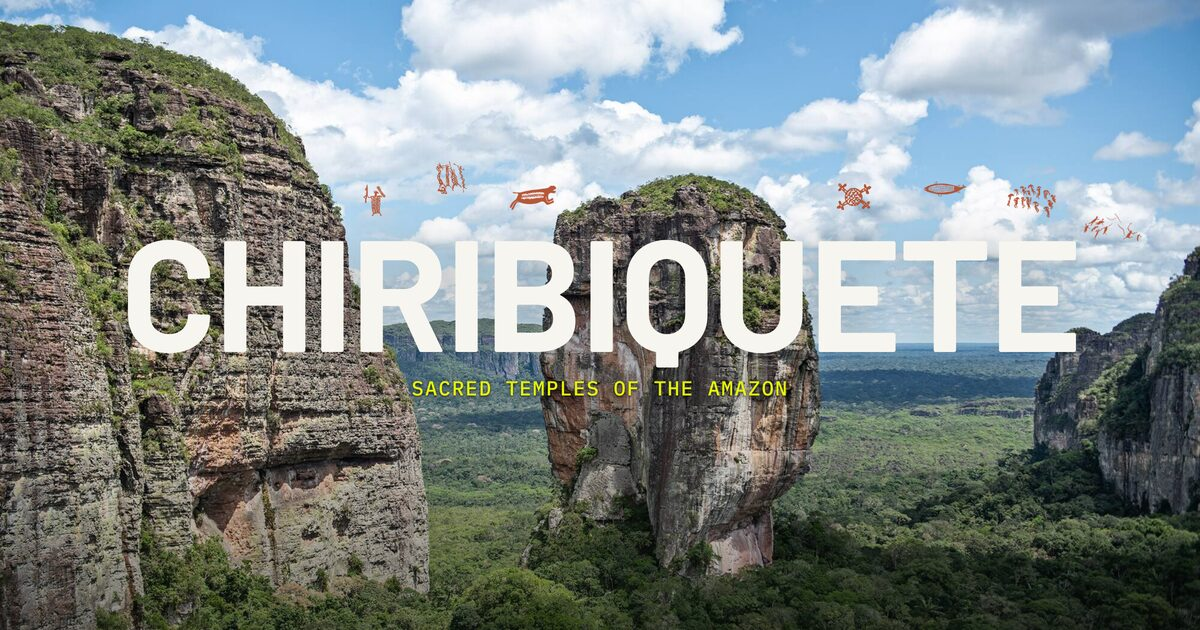
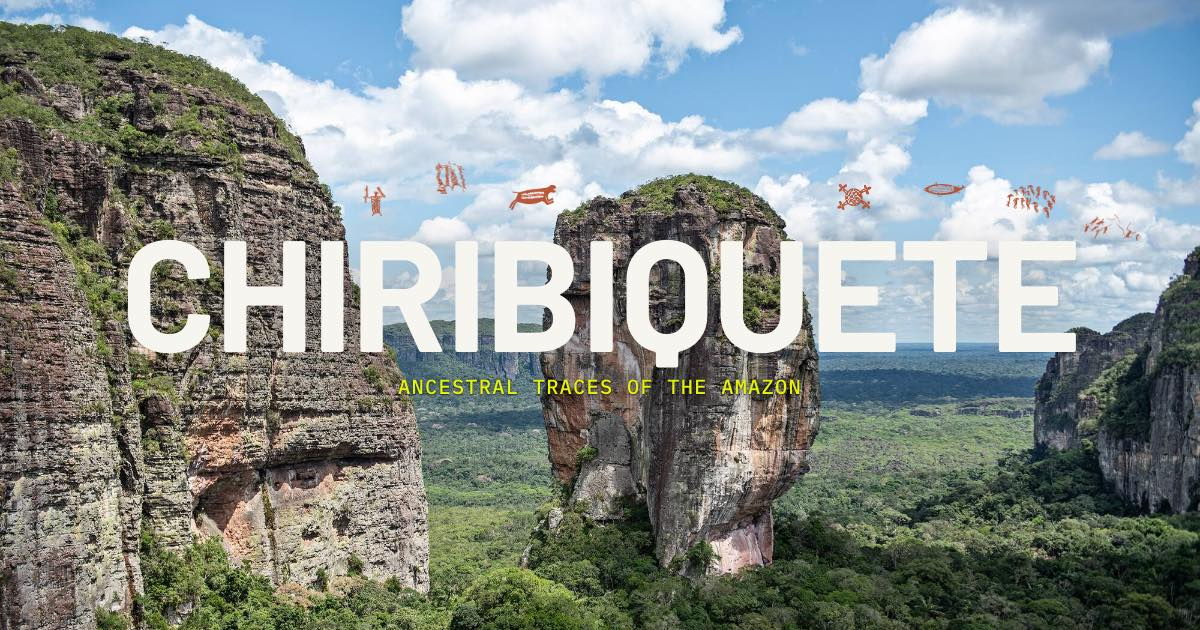
Update Nicolas Villaume bio and new subtitle "Huellas ancestrales de la Amazonía"
Bio rewritten in ES (provided text) and translated to EN/FR. Subtitle
changed in hero, news card and social previews for all three languages.

diff --git a/fr.html b/fr.html
@@ -86,7 +86,7 @@
             <span class="picto picto--ochre" style="--p:url(assets/pictos/p307.png); --x:103.5%; --y:-0.1; --h:0.8; --d:6"></span><!-- a la derecha de la última E, más bajo -->
           </span></span>
         </h1>
-        <p class="hero__sub">Temples sacrés d’Amazonie</p>
+        <p class="hero__sub">Empreintes ancestrales d’Amazonie</p>
       </div>
       </div>
       <div class="hero__shade" aria-hidden="true"></div>
@@ -143,7 +143,7 @@
             <a class="btn" href="https://www.google.com/maps/search/?api=1&amp;query=Alianza%20Francesa%20Bogot%C3%A1%20Sede%20Chic%C3%B3" target="_blank" rel="noopener">Itinéraire</a>
           </div>
 
-          <h3 class="event__expo">Chiribiquete<span>Temples sacrés d’Amazonie</span></h3>
+          <h3 class="event__expo">Chiribiquete<span>Empreintes ancestrales d’Amazonie</span></h3>
           <p class="event__text">Chiribiquete VR arrive à Bogotá dans le cadre de Novembre Numérique, le festival des cultures numériques du réseau des Alliances Françaises, qui célèbre les nouvelles formes interactives de l’art. Un événement de l’Alliance Française de Bogotá, qui accueille dans la galerie de son site de Chicó une exposition entre art, science et technologie&nbsp;: réalité virtuelle, photographie et muséographie numérique pour pénétrer dans les tepuys, la forêt et les peintures rupestres de Chiribiquete. L’inauguration sera accompagnée d’une table ronde de haut niveau dans l’auditorium de l’Alliance Française.</p>
 
           <p class="partners__label">Partenaires &amp; soutiens</p>
@@ -302,8 +302,9 @@
         <div class="creator">
           <div class="creator__text" data-reveal>
             <h3 class="h3">Nicolas Villaume</h3>
-            <p>Nicolas Villaume est un photographe primé et explorateur National Geographic, fort de plus de 25 ans de carrière à travers le monde. Son travail, des communautés arctiques touchées par le changement climatique aux cultures ancestrales de l’Amazonie colombienne, explore les liens entre nature et culture et cherche à inspirer l’action.</p>
-            <p>Son œuvre a été présentée dans plus de 50 expositions internationales, notamment au Smithsonian National Museum of the American Indian, au siège des Nations unies et au Musée national du Danemark, ainsi que lors de grands événements internationaux consacrés au climat.</p>
+            <p>Nicolas Villaume est un photographe primé et National Geographic Explorer, fort de plus de 25 ans de carrière internationale. Spécialiste des récits immersifs (<em>immersive storytelling</em>), il fonde en 2004 l’organisation Conversations du Monde, dédiée à la création d’expériences multimédias qui sensibilisent à la diversité bioculturelle et la mettent en valeur.</p>
+            <p>Son travail, des communautés arctiques touchées par le changement climatique aux cultures ancestrales de l’Amazonie colombienne, explore les liens entre nature et culture, avec l’ambition de rapprocher le public de ces territoires et de leurs communautés, et d’inspirer de nouvelles formes de conscience et d’action.</p>
+            <p>Son œuvre a été présentée dans plus de 50 expositions internationales, notamment au Smithsonian National Museum of the American Indian, au siège des Nations unies et au Musée national du Danemark, ainsi que lors de grandes rencontres internationales consacrées au climat.</p>
             <p class="creator__links">
               <a href="https://www.nicolasvillaume.com" target="_blank" rel="noopener">nicolasvillaume.com ↗</a>
             </p>

diff --git a/index.html b/index.html
@@ -85,7 +85,7 @@
             <span class="picto picto--ochre" style="--p:url(assets/pictos/p307.png); --x:103.5%; --y:-0.1; --h:0.8; --d:6"></span><!-- a la derecha de la última E, más bajo -->
           </span></span>
         </h1>
-        <p class="hero__sub">Templos sagrados de la Amazonía</p>
+        <p class="hero__sub">Huellas ancestrales de la Amazonía</p>
       </div>
       </div>
       <div class="hero__shade" aria-hidden="true"></div>
@@ -142,7 +142,7 @@
             <a class="btn" href="https://www.google.com/maps/search/?api=1&amp;query=Alianza%20Francesa%20Bogot%C3%A1%20Sede%20Chic%C3%B3" target="_blank" rel="noopener">Cómo llegar</a>
           </div>
 
-          <h3 class="event__expo">Chiribiquete<span>Templos sagrados de la Amazonía</span></h3>
+          <h3 class="event__expo">Chiribiquete<span>Huellas ancestrales de la Amazonía</span></h3>
           <p class="event__text">Chiribiquete VR llega a Bogotá en el marco de Novembre Numérique, el festival de las culturas digitales de la red de Alianzas Francesas, que celebra las nuevas formas interactivas del arte. Un evento de la Alianza Francesa de Bogotá, que acoge en la galería de su sede Chicó una exposición entre arte, ciencia y tecnología: realidad virtual, fotografía y museografía digital para adentrarse en los tepuyes, la selva y las pinturas rupestres de Chiribiquete. La inauguración estará acompañada de un conversatorio de alto nivel en el auditorio de la Alianza Francesa.</p>
 
           <p class="partners__label">Socios &amp; apoyos</p>
@@ -301,8 +301,9 @@
         <div class="creator">
           <div class="creator__text" data-reveal>
             <h3 class="h3">Nicolas Villaume</h3>
-            <p>Nicolas Villaume es un fotógrafo galardonado y explorador de National Geographic con más de 25 años de trayectoria a nivel mundial. Su trabajo, desde comunidades árticas afectadas por el cambio climático hasta culturas ancestrales en la Amazonía colombiana, explora las conexiones entre naturaleza y cultura y busca inspirar la acción.</p>
-            <p>Su obra ha sido presentada en más de 50 exposiciones internacionales, incluyendo el Smithsonian National Museum of the American Indian, la sede de las Naciones Unidas y el Museo Nacional de Dinamarca, así como en importantes eventos internacionales sobre el clima.</p>
+            <p>Nicolas Villaume es un fotógrafo galardonado y National Geographic Explorer con más de 25 años de trayectoria internacional. Especialista en narrativas inmersivas (<em>immersive storytelling</em>), fundó en 2004 la organización Conversations du Monde, dedicada a crear experiencias multimedia que promueven la conciencia y la valoración de la diversidad biocultural.</p>
+            <p>Su trabajo, que abarca desde comunidades árticas afectadas por el cambio climático hasta culturas ancestrales de la Amazonía colombiana, explora las conexiones entre naturaleza y cultura, buscando acercar al público a estos territorios y sus comunidades e inspirar nuevas formas de conciencia y acción.</p>
+            <p>Su obra ha sido presentada en más de 50 exposiciones internacionales, incluyendo el Smithsonian National Museum of the American Indian, la sede de las Naciones Unidas y el Museo Nacional de Dinamarca, así como en importantes encuentros internacionales sobre el clima.</p>
             <p class="creator__links">
               <a href="https://www.nicolasvillaume.com" target="_blank" rel="noopener">nicolasvillaume.com ↗</a>
             </p>

diff --git a/en.html b/en.html
@@ -86,7 +86,7 @@
             <span class="picto picto--ochre" style="--p:url(assets/pictos/p307.png); --x:103.5%; --y:-0.1; --h:0.8; --d:6"></span><!-- a la derecha de la última E, más bajo -->
           </span></span>
         </h1>
-        <p class="hero__sub">Sacred temples of the Amazon</p>
+        <p class="hero__sub">Ancestral traces of the Amazon</p>
       </div>
       </div>
       <div class="hero__shade" aria-hidden="true"></div>
@@ -143,7 +143,7 @@
             <a class="btn" href="https://www.google.com/maps/search/?api=1&amp;query=Alianza%20Francesa%20Bogot%C3%A1%20Sede%20Chic%C3%B3" target="_blank" rel="noopener">Directions</a>
           </div>
 
-          <h3 class="event__expo">Chiribiquete<span>Sacred temples of the Amazon</span></h3>
+          <h3 class="event__expo">Chiribiquete<span>Ancestral traces of the Amazon</span></h3>
           <p class="event__text">Chiribiquete VR comes to Bogotá as part of Novembre Numérique, the festival of digital cultures of the Alliance Française network, which celebrates new interactive forms of art. An event of the Alianza Francesa de Bogotá, which hosts in the gallery of its Chicó branch an exhibition at the crossroads of art, science and technology: virtual reality, photography and digital museography to explore the tepuis, the rainforest and the rock paintings of Chiribiquete. The opening will be accompanied by a high-level panel discussion in the Alianza Francesa auditorium.</p>
 
           <p class="partners__label">Partners &amp; supporters</p>
@@ -302,8 +302,9 @@
         <div class="creator">
           <div class="creator__text" data-reveal>
             <h3 class="h3">Nicolas Villaume</h3>
-            <p>Nicolas Villaume is an award-winning photographer and National Geographic Explorer with more than 25 years of experience worldwide. His work, from Arctic communities affected by climate change to ancestral cultures in the Colombian Amazon, explores the connections between nature and culture and seeks to inspire action.</p>
-            <p>His work has been shown in more than 50 international exhibitions, including at the Smithsonian National Museum of the American Indian, the United Nations headquarters and the National Museum of Denmark, as well as at major international climate events.</p>
+            <p>Nicolas Villaume is an award-winning photographer and National Geographic Explorer with more than 25 years of international experience. A specialist in immersive storytelling, he founded Conversations du Monde in 2004, an organization dedicated to creating multimedia experiences that raise awareness and appreciation of biocultural diversity.</p>
+            <p>His work, ranging from Arctic communities affected by climate change to ancestral cultures of the Colombian Amazon, explores the connections between nature and culture, seeking to bring audiences closer to these territories and their communities and to inspire new forms of awareness and action.</p>
+            <p>His work has been shown in more than 50 international exhibitions, including at the Smithsonian National Museum of the American Indian, the United Nations headquarters and the National Museum of Denmark, as well as at major international climate gatherings.</p>
             <p class="creator__links">
               <a href="https://www.nicolasvillaume.com" target="_blank" rel="noopener">nicolasvillaume.com ↗</a>
             </p>

diff --git a/tools/i18n.py b/tools/i18n.py
@@ -41,7 +41,7 @@ TRANSLATIONS = [
     ("Tepuy de Chiribiquete emergiendo de la selva amazónica",
      "Chiribiquete tepui rising from the Amazon rainforest",
      "Tepuy de Chiribiquete émergeant de la forêt amazonienne"),
-    ("Templos sagrados de la Amazonía", "Sacred temples of the Amazon", "Temples sacrés d’Amazonie"),
+    ("Huellas ancestrales de la Amazonía", "Ancestral traces of the Amazon", "Empreintes ancestrales d’Amazonie"),
     ('<i aria-hidden="true"></i>Actualidad</span>', '<i aria-hidden="true"></i>News</span>', '<i aria-hidden="true"></i>Actualités</span>'),
     ("Alianza Francesa · Sede Chicó", "Alianza Francesa · Chicó", "Alliance Française · Chicó"),
     ("Inauguración 19.11.2026", "Opening 19.11.2026", "Inauguration 19.11.2026"),
